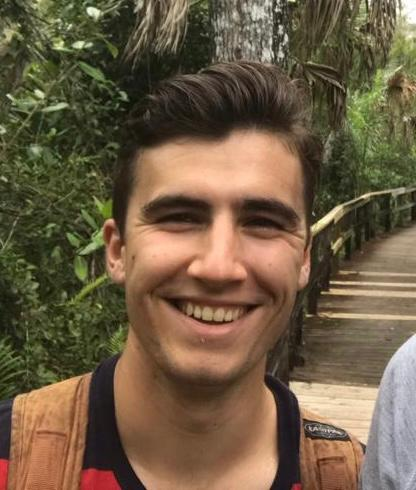
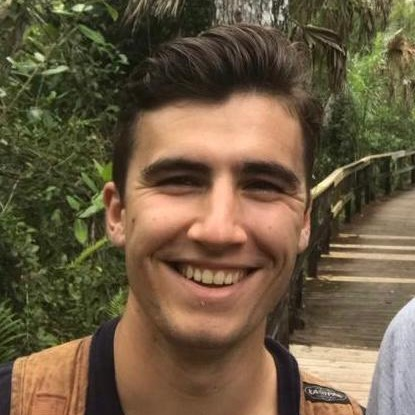
second commit

diff --git a/index.html b/index.html
@@ -9,10 +9,11 @@ permalink: '/'
 layout: page
 ---
 
-<div class="text-box">
-    <p>Wij gaan in het voorjaar van 2022 de Bishorn, een hoge berg (4153 m) in de Zwitserse Alpen, beklimmen om geld in te zamelen voor <span class="orange"><b>Stichting KiKa</b></span>.</p>    
+<div class="text-box" style="padding-top: 30px;">
+    <p>👋 Welkom!</p>
+    <p>Wij gaan in het voorjaar van 2022 de Bishorn, een hoge berg (4153 m) in de Zwitserse Alpen, beklimmen om geld in te zamelen voor <span class="orange"><b>Stichting KiKa</b></span>.</p>
+    <p>Hier hopen we jullie te inspireren om Stichting KiKa te steunen door te [doneren] of door mee te doen aan een van onze <a href="/#doneren">projecten en acties</a>.</p> 
 
-    <p>Hier hopen we jullie te inspireren om Stichting KiKa te steunen door te doneren [LINK] of door mee te doen aan een van onze projecten en acties.[LINK]</p>
 </div>
 
 <h2>Wie zijn wij?</h2>
@@ -33,35 +34,32 @@ layout: page
 <p>De opbrengst van Naar De Top Voor KiKa gaat dit jaar opnieuw volledig naar onderzoek naar de behandeling van neuroblastomen. <a href="/neuroblastomen/">Lees meer over neuroblastomen...</a></p>
 
 <h2 id="doneren">Hoe kun je helpen?</h2>
-        <p>Op de eerste plaats kun je natuurlijk geld doneren [LINK]. Daarnaast zullen we het komende jaar op een aantal creatieve manieren geld in proberen te zamelen. Zo doe je iets goeds, en krijg je er nog iets voor terug ook</p>
+        <p>Op de eerste plaats kun je natuurlijk [geld doneren]. Daarnaast zullen we het komende jaar op een aantal creatieve manieren geld in proberen te zamelen. Zo doe je iets goeds, en krijg je er nog iets voor terug ook</p>
         <div class="text-box">
-            <h4>Geld doneren</h4>
-            <p>Ga naar onze actiepagina [LINK].</p>
+            <h3>💸 Geld doneren</h3>
+            <p>Ga naar onze [actiepagina].</p>
 
-            <h4>Als bedrijf</h4>
+            <h3>Als bedrijf</h3>
             <p>Met uw bedrijfslogo op de Bishorn?</p> 
             <p>Ga met ons mee naar de top en sponsor ons! Stuur ons een mailtje op <a href="mailto:vriendenvoorkika@gmail.com">vriendenvoorkika@gmail.com</a> of stuur een berichtje via <a href="https://www.instagram.com/vriendenvoorkika/">Instagram</a>.</p>
             <p>Ook als u andere wensen heeft, producten beschikbaar wil stellen om te veilen, of KiKa pakketten wil afnemen horen we graag van u!</p>
 
-            <h4>Schaf iets lekkers aan</h4>
+            <h3>🧀 Schaf iets lekkers aan</h3>
             <p>KiKa pakket met delicatessen zoals kazen, hapjes, lokale likeuren en/of chocolade (meer informatie volgt snel!)</p>
             
-            <h4>Bied mee op de veiling</h4>
-            <p>Biedt mee met de veiling, wintereditie en zomereditie (neem contact met ons op als je iets hebt wat we mogen veilen!)</p>
+            <h3>Bied mee op de veiling</h3>
+            <p>Het plan is om twee keer een veiling te organiseren: een wintereditie en een zomereditie. Als je iets hebt wat we mogen veilen, neem contact met ons op!</p>
 
-            <h4>Neem deel aan een activiteit</h4>
+            <h3>Neem deel aan een activiteit</h3>
             <ul>
                 <li>Wijnproeverij (voorjaar 2022)</li>
-                <li>Benefietrave (zomer 2022)</li>
+                <li>Benefietrave (zomer 2022, als het dan mag...)</li>
             </ul>
         </div>
 
         <h2>Stay in touch!</h2>
-        <ul>
-            <li><b>E-mail: </b>vriendenvoorkika@gmail.com</li>
-            <li><b>Instagram: </b>vriendenvoorkika</li>
-        </ul>
+        <p>📧 <a href="mailto:vriendenvoorkika@gmail.com">vriendenvoorkika@gmail.com</a></p>
+        <p>👋 <a href="https://www.instagram.com/vriendenvoorkika">Instagram</a></p>
         
-        <h2><span class="blue">Samen de top van de Bishorn op!</span></h2> 
     
 

diff --git a/over.html b/over.html
@@ -13,24 +13,19 @@ permalink: /over/
     <div class="post-content">
         <div class="about-parent">
             <div class="about-child">
-                <img class="selfie" src="/assets/images/selfie-koen.jpeg">
-                <p>Hoi! Ik ben Koen Raijer, 23 jaar oud en zo’n vijf jaar geleden afgereisd van het mooie Reuver naar de Parel van het Zuiden: Maastricht, om daar geneeskunde te gaan studeren. Daarvoor zal ik de komende tijd overal en nergens in Limburg en Brabant te vinden zijn om stage te lopen. Verder sport ik graag in de sportschool of lekker buiten op de fiets, ik lees graag en ik luister of maak muziek. </p>
-                <details>
-                    <summary>Meer lezen...</summary>
-                    <p>Ik geniet heel erg van de natuur en de bergen en ik hou ervan om mezelf uit te dagen. Dit mooie avontuur op mijn pad kwam, waarbij ik bovendien iets heel goeds kan doen, kon ik dus niet aan me voorbij laten schieten!</p>
-                </details>
+                <div class="about-child-image">
+                    <img class="selfie" src="/assets/images/selfie-koen.jpeg">
+                </div>
+                <p>Ik ben Koen Raijer, 23 jaar oud en ik woon inmiddels vijf jaar in Maastricht. Mijn roots liggen in Reuver, waar ik lang bij de harmonie gespeeld heb. Ik voel me nog altijd muzikant en hoop het snel weer op te kunnen pakken. Verder train ik graag met gewichten in de sportschool, of ik zit lekker buiten op de fiets. In mijn vrije uurtjes lees, kook of socialize ik graag. Bovendien geniet ik (steeds meer) van de natuur en van buiten zijn en hou ik wel van een uitdaging!</p>
             </div>
             <div class="about-child">
-                <p>Lorem ipsum dolor sit amet consectetur adipisicing elit. Error possimus corporis dicta, voluptate, corrupti, fugit aut quidem quas totam molestiae perspiciatis laboriosam? Consequatur adipisci excepturi dicta, architecto nisi nulla ab!</p>
-    
+                <p>Lorem, ipsum dolor sit amet consectetur adipisicing elit. Rem aliquid nam voluptas quas tempora error nihil magnam deserunt repellat. Atque officiis explicabo, quisquam harum dignissimos a dolores aspernatur eveniet? Dolores.</p>    
             </div>
             <div class="about-child">
-                <p>Lorem ipsum dolor sit amet consectetur adipisicing elit. Error possimus corporis dicta, voluptate, corrupti, fugit aut quidem quas totam molestiae perspiciatis laboriosam? Consequatur adipisci excepturi dicta, architecto nisi nulla ab!</p>
-    
+                <p>Voorstellen Thomas</p>    
             </div>
             <div class="about-child">
-                <p>Lorem ipsum dolor sit amet consectetur adipisicing elit. Error possimus corporis dicta, voluptate, corrupti, fugit aut quidem quas totam molestiae perspiciatis laboriosam? Consequatur adipisci excepturi dicta, architecto nisi nulla ab!</p>
-    
+                <p>Voorstellen Romy</p>
             </div>
         </div>
     </div>

diff --git a/_sass/minima/_layout.scss b/_sass/minima/_layout.scss
@@ -387,8 +387,9 @@
 
 .text-box {
   background: $brand-color-lightest;
-  padding: $spacing-unit;
+  padding: $spacing-unit / 2;
   padding-bottom: $spacing-unit / 2;
+  padding-top: $spacing-unit / 2;
   margin-top: $spacing-unit;
   z-index: -100;
   border-radius: 10px;
@@ -402,6 +403,11 @@
   }
   ul, ol {
     margin-left: $spacing-unit;
+  }
+  @media screen and (min-width: $on-medium) {
+    padding: $spacing-unit;
+    padding-bottom: $spacing-unit / 2;
+    padding-top: $spacing-unit / 2;
   }
 }
 
@@ -593,7 +599,12 @@
 .about-child {
   position: relative;
   border-radius: 5px;
-  padding: $spacing-unit;
+  max-width: 30vw;
+
+  p {
+    padding-left: $spacing-unit / 2;
+    padding-right: $spacing-unit / 2;
+  }
 }
 
 .about-child:nth-child(1) {
@@ -614,9 +625,8 @@
 }
 
 .selfie {
-  max-height: 20vh;
-  margin: 0.5rem;
-  float: left;
+  width: 100%;
+  margin-bottom: $spacing-unit / 2;
 }
 
 .donerenknop {

diff --git a/_includes/header.html b/_includes/header.html
@@ -20,6 +20,7 @@
 
         <div class="regular-menu">
           <a class="page-link" href="/#doneren">Doneer</a>  
+          <a class="page-link" href="/#doneren">Projecten</a> 
           {%- for path in page_paths -%}
             {%- assign my_page = site.pages | where: "path", path | first -%}
             {%- if my_page.title -%}
@@ -30,6 +31,7 @@
 
         <div class="trigger">
               <div class="trigger-menu">
+                <a class="page-link" href="/#doneren">Projecten</a> 
                   {%- for path in page_paths -%}
                   {%- assign my_page = site.pages | where: "path", path | first -%}
                   {%- if my_page.title -%}

diff --git a/_sass/minima/initialize.scss b/_sass/minima/initialize.scss
@@ -87,7 +87,7 @@ $spacing-unit:     30px !default;
 $table-text-align: left !default;
 
 // Width of the content area
-$content-width:    800px !default;
+$content-width:    900px !default;
 
 $on-palm:          600px !default;
 $on-laptop:        800px !default;
